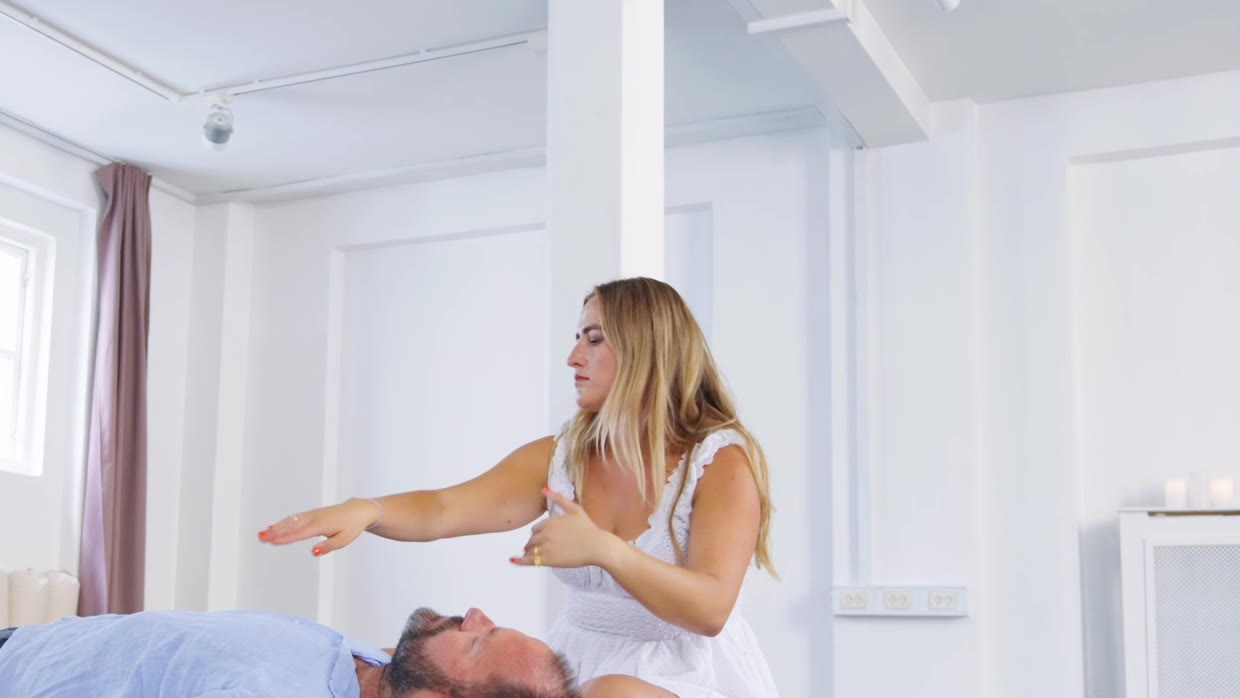
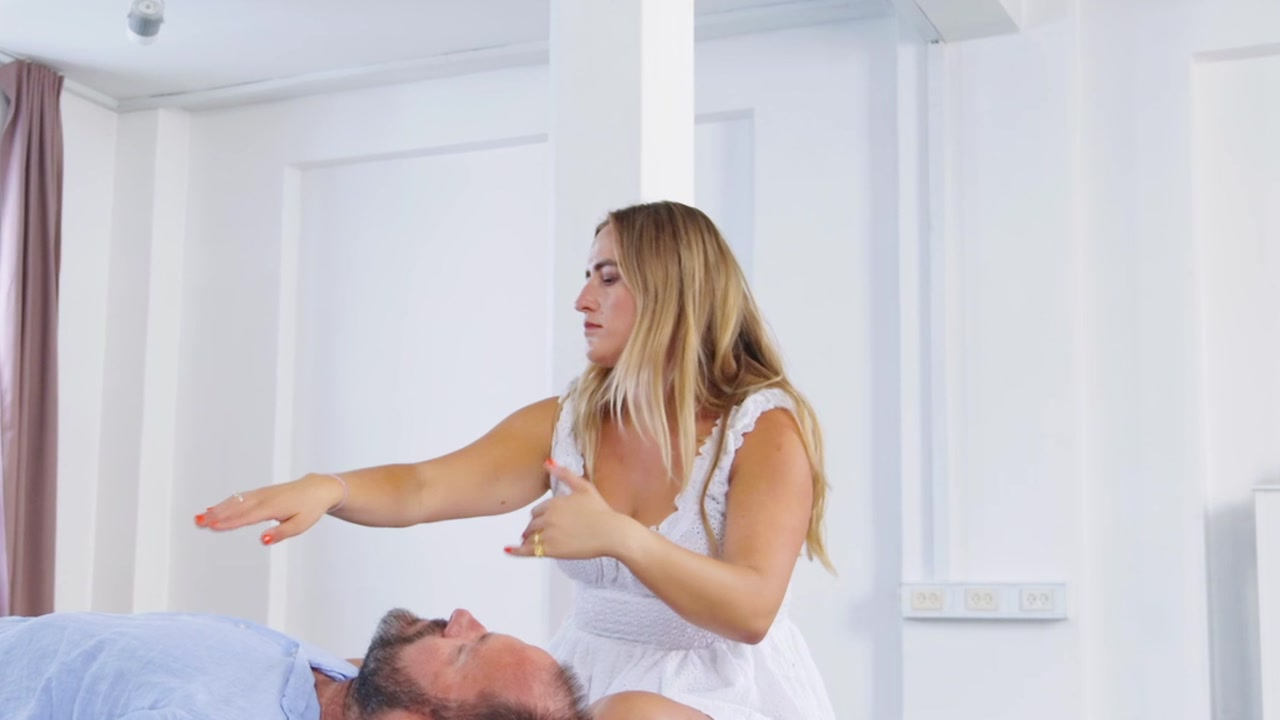
Tighter activation cover; headshot without lower necklace
Claude-Session: https://claude.ai/code/session_019JSQQoQv7ciZPW7vyYJMCo

diff --git a/src/pages/About.tsx b/src/pages/About.tsx
@@ -1,3 +1,4 @@
+import headshotPhoto from "@/assets/sidsel-headshot-about.jpg";
 import { Link } from "react-router-dom";
 import usePageMeta from "@/hooks/usePageMeta";
 import Navigation from "@/components/Navigation";
@@ -62,7 +63,7 @@ const About = () => {
               <Link to="/apply">APPLY NOW</Link>
             </Button>
           </div>
-          <img src="https://hciqvcspehfitlgclhud.supabase.co/storage/v1/object/public/sidsel/Headshot%202.jpg" alt="Sidsel Løschenkohl" className="w-full aspect-[4/5] rounded-2xl object-cover object-top" />
+          <img src={headshotPhoto} alt="Sidsel Løschenkohl" className="w-full aspect-[4/5] rounded-2xl object-cover object-top" />
         </div>
       </section>
 

diff --git a/src/components/sections/method/MethodOrigin.tsx b/src/components/sections/method/MethodOrigin.tsx
@@ -1,3 +1,4 @@
+import headshotPhoto from "@/assets/sidsel-headshot-about.jpg";
 const MethodOrigin = () => {
   return (
     <section className="bg-surface py-[100px] px-8">
@@ -6,7 +7,7 @@ const MethodOrigin = () => {
         <div className="flex flex-col items-center md:items-start">
           <div className="w-full max-w-[400px] aspect-[3/4] rounded-lg overflow-hidden">
             <img
-              src="https://hciqvcspehfitlgclhud.supabase.co/storage/v1/object/public/sidsel/Headshot%202.jpg"
+              src={headshotPhoto}
               alt="Sidsel Løschenkohl"
               className="w-full h-full object-cover object-top"
               loading="lazy"

diff --git a/src/components/blog/BlogPostLayout.tsx b/src/components/blog/BlogPostLayout.tsx
@@ -1,10 +1,11 @@
+import headshotPhoto from "@/assets/sidsel-headshot-about.jpg";
 import { Link } from "react-router-dom";
 import { ReactNode } from "react";
 import Navigation from "@/components/Navigation";
 import Footer from "@/components/sections/Footer";
 
 const HEADSHOT =
-  "https://hciqvcspehfitlgclhud.supabase.co/storage/v1/object/public/sidsel/Headshot%202.jpg";
+  headshotPhoto;
 
 interface BlogPostLayoutProps {
   category: string;
